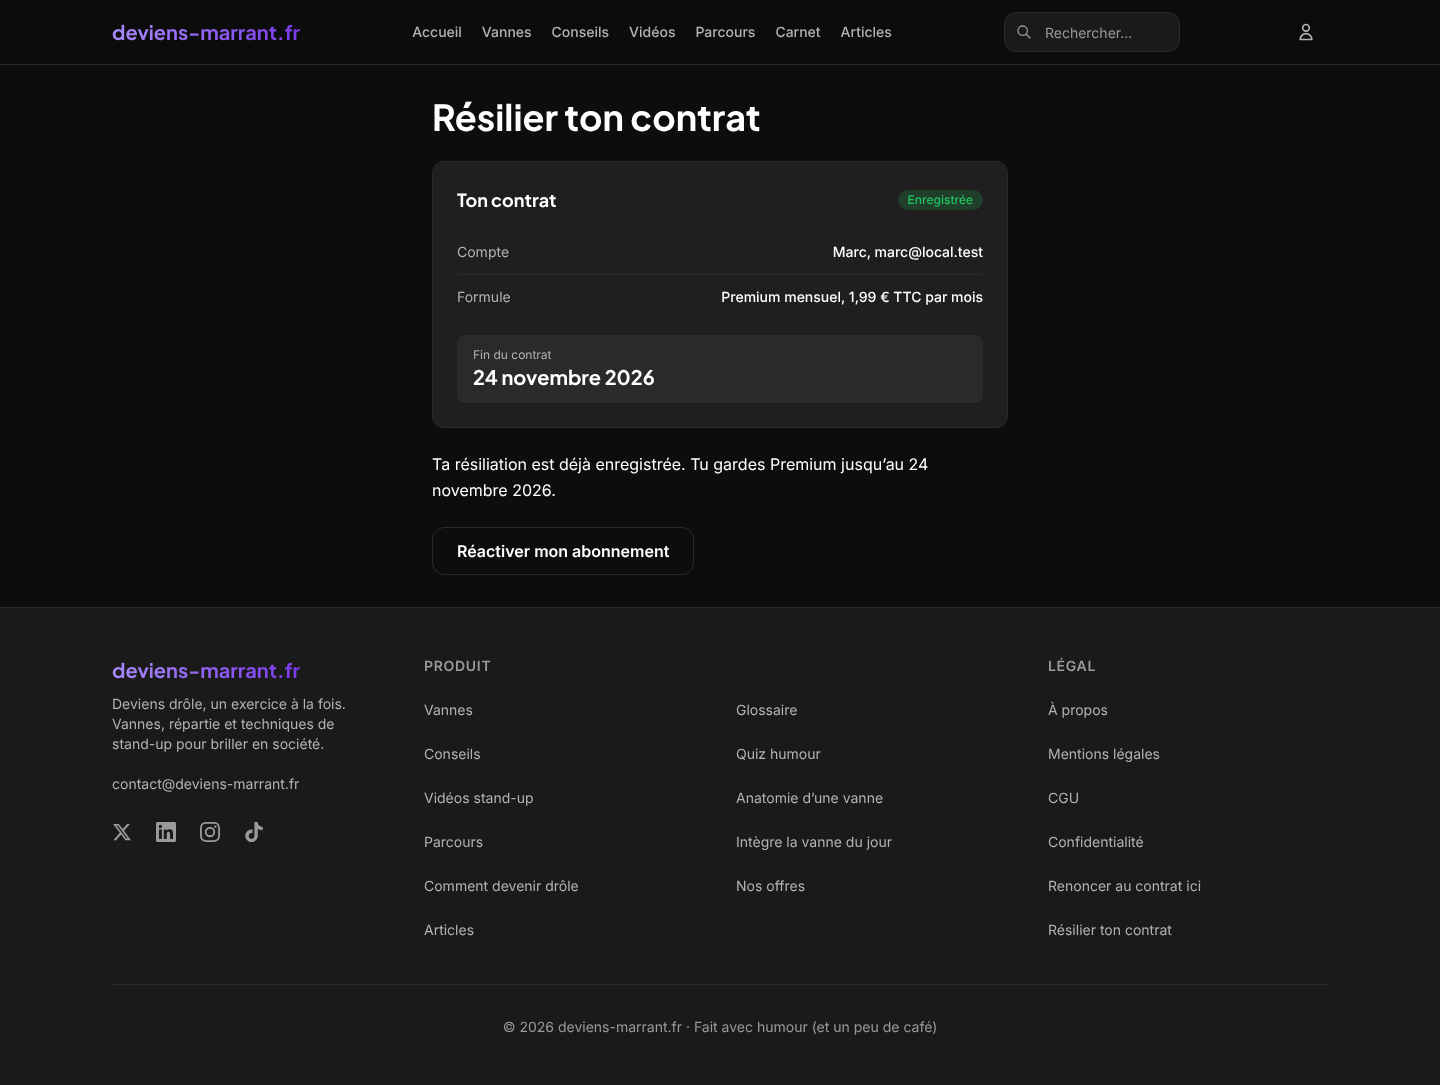
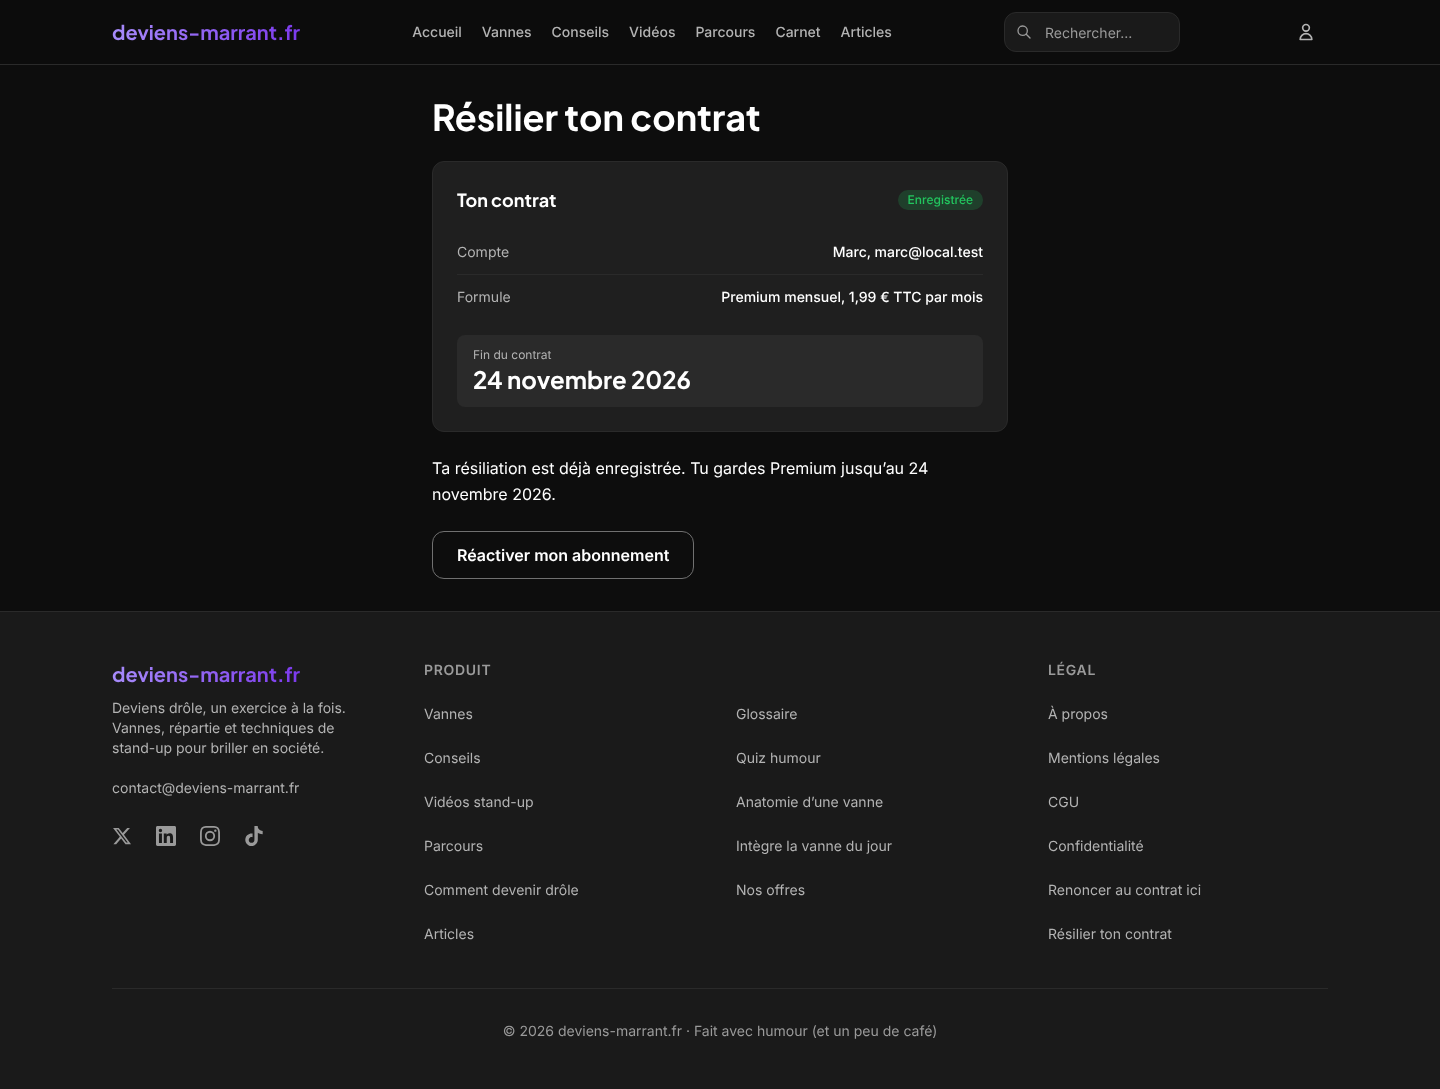
s23 : captures v2 de /resiliation et entrée « À DÉPLOYER » mise à jour
Captures refaites (61 PASS, 0 FAIL, 39 captures, 0 appel Stripe) dont les
états demandés par UX O9 : hors ligne, App Store, tablette 768 (vide et
confirmée), PC 1440x900 premier écran, carte abonnement du profil ouverte,
ancre #resiliation de la confidentialité. UX O6 refusé sur preuve (200 au
lieu de 404 avec loading.tsx, interrupteur fermé).

Claude-Session: https://claude.ai/code/session_012PS7SoSVmP89FeCa8Yu1ww

diff --git a/scripts/qa-resiliation-s23/captures.js b/scripts/qa-resiliation-s23/captures.js
@@ -17,6 +17,8 @@ const TAILLES = [
   { nom: 'pc-1440', viewport: { width: 1440, height: 900 }, mobile: false },
   { nom: 'mobile-390', viewport: { width: 390, height: 844 }, mobile: true },
 ];
+// v2 (UX O9) : tablette 768, états vide et confirmée seulement.
+const TABLETTE = { nom: 'tablette-768', viewport: { width: 768, height: 1024 }, mobile: true };
 fs.mkdirSync(OUT, { recursive: true });
 const ok = (name, pass, detail = '') => console.log((pass ? 'PASS ' : 'FAIL ') + name + (detail ? ' :: ' + detail : ''));
 const psql = (sql) => execSync(`${process.env.QA_PSQL} -At -c ${JSON.stringify(sql)}`).toString().trim();
@@ -96,6 +98,8 @@ async function avant(browser) {
     await carte.waitFor({ timeout: 20000 }).catch(() => {});
     ok(`${t.nom} carte fermée : bouton du portail`, (await carte.getByRole('button', { name: 'Résilier ton contrat' }).count()) === 1);
     await shot(page, `avant-profil-carte-abonnement-${t.nom}`, { clip: carte });
+    await go(page, BASE + '/confidentialite');
+    ok(`${t.nom} confidentialité fermée : aucun ajout résiliation`, (await page.getByTestId('confidentialite-resiliation').count()) === 0 && (await page.locator('#resiliation').count()) === 0);
     await ctx.close();
   }
 }
@@ -119,7 +123,8 @@ async function apres(browser) {
     await go(page, BASE + '/resiliation');
     await controlesEcran(page, t);
     await shot(page, `resiliation-vide-${n}`);
-    if (t.mobile) await shot(page, `resiliation-vide-premier-ecran-${n}`, { fullPage: false });
+    // v2 (UX O9) : premier écran aussi sur PC 1440x900 (barre collée visible).
+    await shot(page, `resiliation-vide-premier-ecran-${n}`, { fullPage: false });
     await page.getByRole('checkbox', { name: 'Je voulais juste essayer' }).check();
     await page.getByRole('checkbox', { name: 'Trop cher pour moi' }).check();
     await page.getByLabel(/Un mot de plus/).fill('Je reviendrai sûrement après les partiels.');
@@ -142,6 +147,37 @@ async function apres(browser) {
     await shot(page, `resiliation-erreur-stripe-${n}`, { fullPage: false });
     await shot(page, `resiliation-erreur-stripe-page-${n}`);
     await page.unroute(API);
+    // v2 (UX O9) : hors ligne (aucune réponse), puis refus 429 (UX O4).
+    await page.route(API, (route) => route.abort('internetdisconnected'));
+    await bouton(page).click();
+    await page.locator('form [role="alert"]').waitFor();
+    const horsLigne = await page.locator('form [role="alert"]').innerText();
+    ok(`${n} hors ligne : « Pas de connexion », bouton « Confirmer la résiliation »`, horsLigne.includes('Pas de connexion') && (await bouton(page).innerText()).includes('Confirmer la résiliation'));
+    await shot(page, `resiliation-hors-ligne-${n}`, { fullPage: false });
+    await page.unroute(API);
+    await page.route(API, (route) => route.fulfill({ status: 429, contentType: 'application/json', body: '{"error":"trop"}' }));
+    await bouton(page).click();
+    await page.waitForFunction(() => document.querySelector('form [role="alert"]')?.textContent?.includes('pas pu partir'), null, { timeout: 10000 }).catch(() => {});
+    ok(`${n} refus 429 : message « refus », pas « Pas de connexion »`, (await page.locator('form [role="alert"]').innerText()).includes('pas pu partir'));
+    await page.unroute(API);
+    // v2 (UX O5, O9) : App Store, carte Apple seule (plus de bouton « Confirmer »).
+    await page.route(API, (route) => route.fulfill({ status: 409, contentType: 'application/json', body: '{"etat":"app_store"}' }));
+    await bouton(page).click();
+    await page.getByTestId('resiliation-app-store').waitFor({ timeout: 10000 }).catch(() => {});
+    ok(`${n} App Store : carte Apple, aucun bouton Confirmer`, (await page.getByTestId('resiliation-app-store').count()) === 1 && (await bouton(page).count()) === 0);
+    await shot(page, `resiliation-app-store-${n}`);
+    await page.unroute(API);
+    await ctx.close();
+
+    // v2 (@legal O6) : carte abonnement du profil, interrupteur ouvert (lien vers /resiliation).
+    ctx = await contexte(browser, t);
+    page = await ctx.newPage();
+    await login(page, 'yanis.avant@local.test', '/profil#abonnement');
+    await go(page, BASE + '/profil#abonnement');
+    const carte = page.locator('#abonnement');
+    await carte.waitFor({ timeout: 20000 }).catch(() => {});
+    ok(`${n} carte ouverte : lien vers /resiliation`, (await carte.getByRole('link', { name: 'Résilier ton contrat' }).first().getAttribute('href')) === '/resiliation');
+    await shot(page, `apres-profil-carte-abonnement-${n}`, { clip: carte });
     await ctx.close();
 
     // Annuel, déjà résilié, sans abonnement, sans client Stripe (vrai appel à l'API locale, sans Stripe).
@@ -175,12 +211,37 @@ async function apres(browser) {
     await page.waitForURL('**/resiliation/confirmee', { timeout: 20000 }).catch(() => {});
     await page.waitForLoadState('networkidle', { timeout: 15000 }).catch(() => {});
     const texte = await page.locator('main').innerText();
-    ok(`${n} page finale : date, effets, merci, aide « prix »`, texte.includes('C’est noté.') && texte.includes('1er décembre 2026') && texte.includes('Merci d’avoir répondu.') && texte.includes('chaque parcours'));
+    ok(`${n} page finale : date, effets, ni merci ni aide (UX O1)`, texte.includes('C’est noté.') && texte.includes('1er décembre 2026') && !texte.includes('Merci d’avoir répondu.') && !texte.includes('chaque parcours'));
     const focus = await page.evaluate(() => document.activeElement?.tagName);
     ok(`${n} page finale : H1 focalisé`, focus === 'H1', focus);
     await shot(page, `resiliation-confirmee-${n}`);
     await ctx.close();
   }
+  // v2 (UX O9) : tablette 768, vide puis confirmée.
+  const t = TABLETTE;
+  let ctx = await contexte(browser, t);
+  let page = await ctx.newPage();
+  await login(page, 'flux768@local.test', '/resiliation');
+  await go(page, BASE + '/resiliation');
+  await controlesEcran(page, t);
+  await shot(page, `resiliation-vide-${t.nom}`);
+  await page.route(API, (route) => {
+    psql(`update "Subscription" set "cancelAtPeriodEnd"=true where "userId"='qa_flux_768'`);
+    return route.fulfill({ status: 200, contentType: 'application/json', body: JSON.stringify({ etat: 'resilie', dateFin: '2026-12-01T10:00:00.000Z', formule: 'monthly' }) });
+  });
+  await bouton(page).click();
+  await page.waitForURL('**/resiliation/confirmee', { timeout: 20000 }).catch(() => {});
+  await page.waitForLoadState('networkidle', { timeout: 15000 }).catch(() => {});
+  ok(`${t.nom} page finale atteinte`, page.url().endsWith('/resiliation/confirmee'), page.url());
+  await shot(page, `resiliation-confirmee-${t.nom}`);
+  await ctx.close();
+  // v2 : politique de confidentialité ouverte, ancre #resiliation.
+  ctx = await contexte(browser, TAILLES[0]);
+  page = await ctx.newPage();
+  await go(page, BASE + '/confidentialite#resiliation');
+  ok('confidentialité ouverte : ancre #resiliation et 4 ajouts', (await page.locator('#resiliation').count()) === 1 && (await page.getByTestId('confidentialite-resiliation').count()) === 4);
+  await shot(page, 'resiliation-confidentialite-ancre-pc-1440', { fullPage: false });
+  await ctx.close();
 }
 
 (async () => {

diff --git a/REPLIT_ACTIONS.md b/REPLIT_ACTIONS.md
@@ -8,6 +8,7 @@
 - **Fermé (état livré) = comportement actuel inchangé** : pied de page « Résilier ton contrat » vers `/profil#abonnement`, carte abonnement avec le bouton du portail Stripe, `/resiliation`, `/resiliation/confirmee` et `POST /api/user/subscription/resiliation` en 404, webhook Stripe qui envoie « C'est noté » comme avant. Seul ajout visible fermé : la section « Motifs de résiliation » de l'admin (Abonnés › Premium et comptes), avec la note « écran fermé ».
 - **Ouvert** (plus tard, sur go) : `/resiliation` (connexion puis retour), récapitulatif lu en base (Stripe si un champ manque), question facultative (7 raisons + mot de 500 caractères), « Confirmer la résiliation » collé en bas, toujours actif ; route : Stripe `cancel_at_period_end: true` D'ABORD (clé d'idempotence), puis motif dans `CancellationFeedback` (jamais bloquant), puis accusé « C'est noté » (anti-doublon avec le webhook par la clé `email-resiliation:<abonnement>` de `WebhookEvent`, 10 min) ; erreur Stripe ou Premium sans client Stripe : e-mail à alex@ « Résiliation à faire à la main » + alerte A `paiement-resiliation-a-faire` + accusé « Ta demande de résiliation est bien reçue » ; App Store (appli) : message Apple. Pied de page, carte du profil et parcours `resilier` du portail mènent à `/resiliation`.
 - Fichiers : `apps/web/src/config/resiliation.ts` (interrupteur, raisons), `config/textes/resiliation.ts`, `config/textes/resiliation-emails.ts`, `lib/resiliation.ts`, `lib/admin/motifs-resiliation.ts`, `app/(dashboard)/resiliation/page.tsx`, `.../confirmee/page.tsx`, `.../error.tsx`, `app/api/user/subscription/resiliation/route.ts`, `app/api/admin/resiliations/route.ts`, `components/resiliation/*` (8 fichiers), `components/admin/motifs-resiliation-section.tsx` ; modifiés : `components/layout/footer.tsx`, `components/profil/abonnement-card.tsx`, `components/admin/abonnes-tab.tsx`, `app/(auth)/login/page.tsx` (phrase de contexte, ouvert seulement), `app/api/stripe/webhook/route.ts` (anti-doublon, ouvert seulement), `app/api/user/subscription/portal/route.ts` (parcours `resilier` vers `/resiliation`, ouvert seulement), `prisma/schema.prisma` (modèle `CancellationFeedback` + relation sur `User`, sans colonne). Tests : `api/resiliation-s23.test.ts`, `feature/resiliation-page-s23.test.tsx`, `feature/resiliation-pages-serveur-s23.test.ts`. Captures : `docs/captures/s23-resiliation/` (script `scripts/qa-resiliation-s23/`).
+- **v2 (06/11, commit `c260215`) : corrections des 4 revues v1** (`docs/{design,ux,legal,copy}/revues-resiliation/*-v1.md`), toujours FERMÉ. Design O1 à O4 ; UX O1 (page finale sans aide ni « Merci », aucun chiffre), O2 (connexion sans bloc d'inscription), O3 (saisie gardée après 401), O4 (message « refus » pour 429/403/500), O5 (App Store à l'ouverture, carte seule), O7 (accès offert : « à la fin de ton accès Premium », sans ligne de prélèvement), O8 ; legal O1 (mention sous le champ libre), O2 et O3 (confidentialité parties 2, 3, 6, 7, ancre `#resiliation`, publiées SEULEMENT ouvert ; « Dernière mise à jour » de la confidentialité seule), O4 et O5 ; reviewer O1 (503 si l'équipe est prévenue, sinon 500), O2 (webhook comparé à l'heure de l'événement), O3 (tests). **Valeurs PROVISOIRES à confirmer par Thomas, une ligne chacune dans `config/resiliation.ts`** : `RESILIATION_CONSERVATION_MOIS = 24`, `RESILIATION_DELAI_EQUIPE = "sous un jour ouvré"`. Purge des réponses de plus de 24 mois dans la tâche quotidienne de 4 h existante (`runLettreHebdoEntretienJob`, essai à part, sans verrou) ; mot libre effacé à la suppression du compte (`lib/resiliation-conservation.ts`). Fermé, ces deux ajouts tournent mais ne trouvent pas la table (migration 17 non jouée) : 0, aucune erreur, aucune écriture. Arbitrages : bandeau d'erreur = UX O8 + legal O5 réunis ; 503 = reviewer O1 + legal O4 option 1 (accusé de demande à l'adresse de la session, la plus prudente pour l'abonné) ; UX O7 retenu contre legal R3 (recommandation). **UX O6 (`loading.tsx`) refusé sur preuve** : build interrupteur fermé avec `resiliation/loading.tsx`, `curl` `/resiliation` et `/resiliation/confirmee` → **200** (squelette « Résilier ton contrat » servi) au lieu de 404 ; fichier retiré, test `resiliation-pages-serveur-s23` qui l'interdit. Souhaitables appliqués (une ligne) : date de fin `text-2xl`, « Aucun nouveau prélèvement après. » et « Rien à résilier ici. » en texte principal, `deja_resilie` relit l'écran (reviewer S3), constante `RESILIATION_TIMEOUT_STRIPE_MS` inutilisée supprimée (S7). Vérifié sous `env -i` + variables factices de la CI : tsc build et complet, `next lint`, `npm run build`, Jest complet (5 979 tests, 0 échec) ; migration 17 inchangée, rejouée 2 fois sur base jetable (écart Prisma vide) ; captures locales 61 PASS, 0 FAIL, 39 captures, 0 appel Stripe (fermé : 404 pages et API, pied de page et carte inchangés, confidentialité sans ajout). Nouvelles captures : `resiliation-hors-ligne-*`, `resiliation-app-store-*`, `resiliation-vide-tablette-768`, `resiliation-confirmee-tablette-768`, `resiliation-vide-premier-ecran-pc-1440`, `apres-profil-carte-abonnement-*`, `resiliation-confidentialite-ancre-pc-1440`. Action Thomas inchangée (legal O6) : retirer « Annuler les abonnements » de la configuration du portail Stripe, capture du réglage ici.
 - **Migration 17** (`apps/web/prisma/migrations/17_resiliation_motif_s23/migration.sql`) : une table neuve `CancellationFeedback`, aucune table existante modifiée, aucune donnée écrite. Idempotente : jouée 2 fois sur base jetable PostgreSQL 16 (2e passe OK, `prisma migrate diff` base contre schéma = migration vide). Fermé, rien ne lit ni n'écrit la table sauf le compteur de l'admin (« Table des motifs absente » sans elle). N-1 l'ignore.
   - P1 : sauvegarde (branche Neon ou `pg_dump` de la base de production) avant toute écriture.
   - P2 : jouer le fichier DEUX fois sur une base jetable copiée de la production (2e passe sans erreur), puis UNE fois en production, sur go de Thomas, AVANT le déploiement du code ; contrôle : `select count(*) from "CancellationFeedback"` = 0 et `\d "CancellationFeedback"` (9 colonnes, index `requestKey` unique, clé étrangère `ON DELETE SET NULL`).
